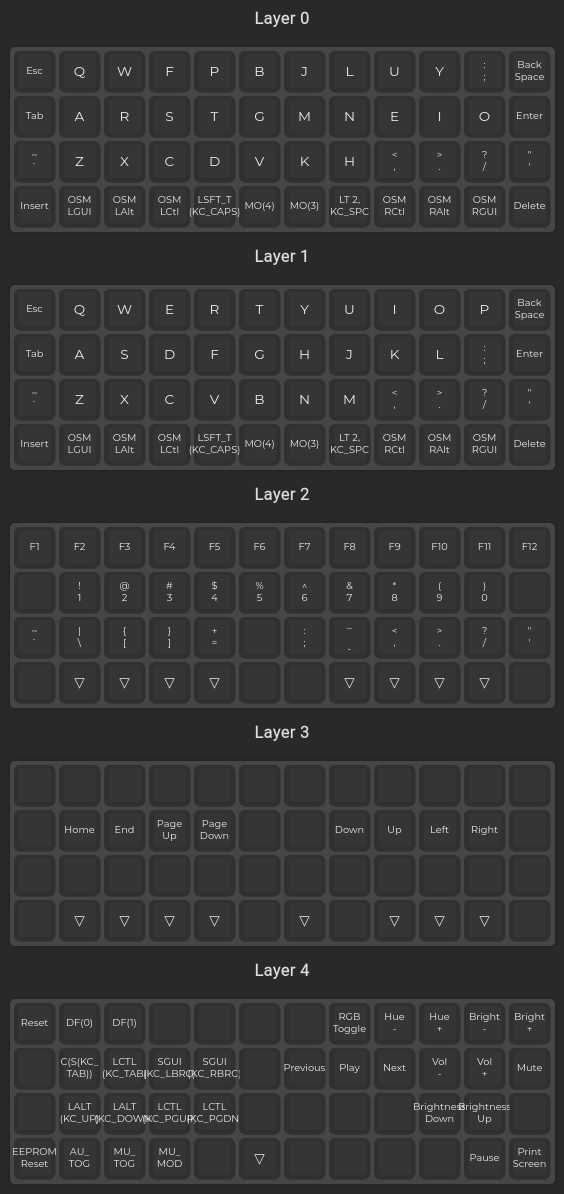
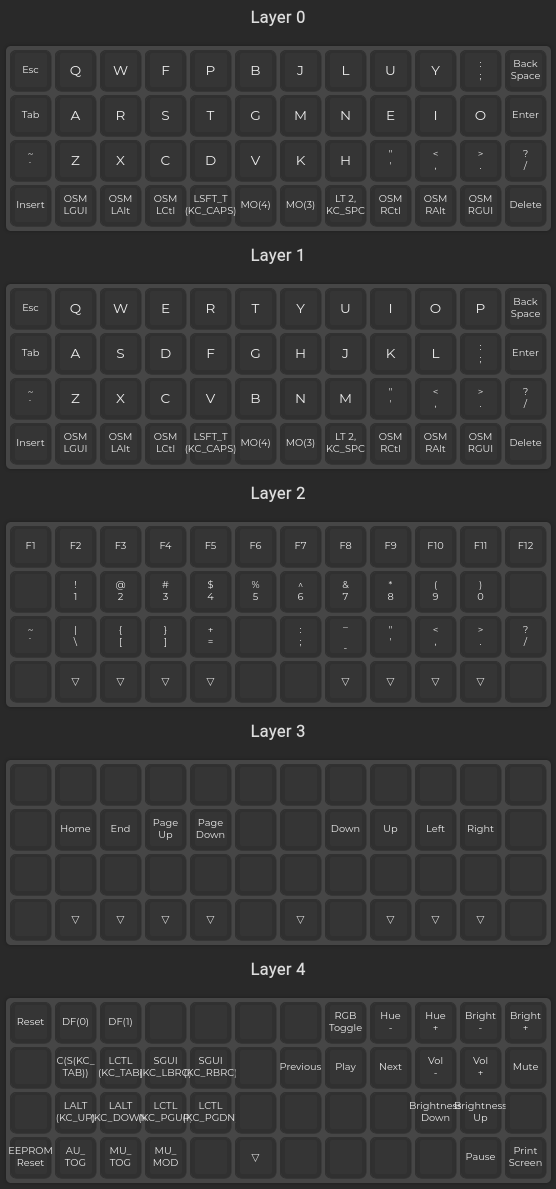
Swap quote

diff --git a/keymap.c b/keymap.c
@@ -7,9 +7,9 @@
  */
 
 const uint16_t PROGMEM keymaps[][MATRIX_ROWS][MATRIX_COLS] = {
-	[0] = LAYOUT_ortho_4x12(KC_ESC, KC_Q, KC_W, KC_F, KC_P, KC_B, KC_J, KC_L, KC_U, KC_Y, KC_SCLN, KC_BSPC, KC_TAB, KC_A, KC_R, KC_S, KC_T, KC_G, KC_M, KC_N, KC_E, KC_I, KC_O, KC_ENT, KC_GRV, KC_Z, KC_X, KC_C, KC_D, KC_V, KC_K, KC_H, KC_COMM, KC_DOT, KC_SLSH, KC_QUOT, KC_INS, OSM(MOD_LGUI), OSM(MOD_LALT), OSM(MOD_LCTL), LSFT_T(KC_CAPS), MO(4), MO(3), LT(2,KC_SPC), OSM(MOD_RCTL), OSM(MOD_RALT), OSM(MOD_RGUI), KC_DEL),
-	[1] = LAYOUT_ortho_4x12(KC_ESC, KC_Q, KC_W, KC_E, KC_R, KC_T, KC_Y, KC_U, KC_I, KC_O, KC_P, KC_BSPC, KC_TAB, KC_A, KC_S, KC_D, KC_F, KC_G, KC_H, KC_J, KC_K, KC_L, KC_SCLN, KC_ENT, KC_GRV, KC_Z, KC_X, KC_C, KC_V, KC_B, KC_N, KC_M, KC_COMM, KC_DOT, KC_SLSH, KC_QUOT, KC_INS, OSM(MOD_LGUI), OSM(MOD_LALT), OSM(MOD_LCTL), LSFT_T(KC_CAPS), MO(4), MO(3), LT(2,KC_SPC), OSM(MOD_RCTL), OSM(MOD_RALT), OSM(MOD_RGUI), KC_DEL),
-	[2] = LAYOUT_ortho_4x12(KC_F1, KC_F2, KC_F3, KC_F4, KC_F5, KC_F6, KC_F7, KC_F8, KC_F9, KC_F10, KC_F11, KC_F12, KC_NO, KC_1, KC_2, KC_3, KC_4, KC_5, KC_6, KC_7, KC_8, KC_9, KC_0, KC_NO, KC_GRV, KC_BSLS, KC_LBRC, KC_RBRC, KC_EQL, KC_NO, KC_SCLN, KC_MINS, KC_COMM, KC_DOT, KC_SLSH, KC_QUOT, KC_NO, KC_TRNS, KC_TRNS, KC_TRNS, KC_TRNS, KC_NO, KC_NO, KC_TRNS, KC_TRNS, KC_TRNS, KC_TRNS, KC_NO),
+	[0] = LAYOUT_ortho_4x12(KC_ESC, KC_Q, KC_W, KC_F, KC_P, KC_B, KC_J, KC_L, KC_U, KC_Y, KC_SCLN, KC_BSPC, KC_TAB, KC_A, KC_R, KC_S, KC_T, KC_G, KC_M, KC_N, KC_E, KC_I, KC_O, KC_ENT, KC_GRV, KC_Z, KC_X, KC_C, KC_D, KC_V, KC_K, KC_H, KC_QUOT, KC_COMM, KC_DOT, KC_SLSH, KC_INS, OSM(MOD_LGUI), OSM(MOD_LALT), OSM(MOD_LCTL), LSFT_T(KC_CAPS), MO(4), MO(3), LT(2,KC_SPC), OSM(MOD_RCTL), OSM(MOD_RALT), OSM(MOD_RGUI), KC_DEL),
+	[1] = LAYOUT_ortho_4x12(KC_ESC, KC_Q, KC_W, KC_E, KC_R, KC_T, KC_Y, KC_U, KC_I, KC_O, KC_P, KC_BSPC, KC_TAB, KC_A, KC_S, KC_D, KC_F, KC_G, KC_H, KC_J, KC_K, KC_L, KC_SCLN, KC_ENT, KC_GRV, KC_Z, KC_X, KC_C, KC_V, KC_B, KC_N, KC_M, KC_QUOT, KC_COMM, KC_DOT, KC_SLSH, KC_INS, OSM(MOD_LGUI), OSM(MOD_LALT), OSM(MOD_LCTL), LSFT_T(KC_CAPS), MO(4), MO(3), LT(2,KC_SPC), OSM(MOD_RCTL), OSM(MOD_RALT), OSM(MOD_RGUI), KC_DEL),
+	[2] = LAYOUT_ortho_4x12(KC_F1, KC_F2, KC_F3, KC_F4, KC_F5, KC_F6, KC_F7, KC_F8, KC_F9, KC_F10, KC_F11, KC_F12, KC_NO, KC_1, KC_2, KC_3, KC_4, KC_5, KC_6, KC_7, KC_8, KC_9, KC_0, KC_NO, KC_GRV, KC_BSLS, KC_LBRC, KC_RBRC, KC_EQL, KC_NO, KC_SCLN, KC_MINS, KC_QUOT, KC_COMM, KC_DOT, KC_SLSH, KC_NO, KC_TRNS, KC_TRNS, KC_TRNS, KC_TRNS, KC_NO, KC_NO, KC_TRNS, KC_TRNS, KC_TRNS, KC_TRNS, KC_NO),
 	[3] = LAYOUT_ortho_4x12(KC_NO, KC_NO, KC_NO, KC_NO, KC_NO, KC_NO, KC_NO, KC_NO, KC_NO, KC_NO, KC_NO, KC_NO, KC_NO, KC_HOME, KC_END, KC_PGUP, KC_PGDN, KC_NO, KC_NO, KC_DOWN, KC_UP, KC_LEFT, KC_RGHT, KC_NO, KC_NO, KC_NO, KC_NO, KC_NO, KC_NO, KC_NO, KC_NO, KC_NO, KC_NO, KC_NO, KC_NO, KC_NO, KC_NO, KC_TRNS, KC_TRNS, KC_TRNS, KC_TRNS, KC_NO, KC_TRNS, KC_NO, KC_TRNS, KC_TRNS, KC_TRNS, KC_NO),
 	[4] = LAYOUT_ortho_4x12(RESET, DF(0), DF(1), KC_NO, KC_NO, KC_NO, KC_NO, RGB_TOG, RGB_HUD, RGB_HUI, RGB_VAD, RGB_VAI, KC_NO, C(S(KC_TAB)), LCTL(KC_TAB), SGUI(KC_LBRC), SGUI(KC_RBRC), KC_NO, KC_MPRV, KC_MPLY, KC_MNXT, KC_VOLD, KC_VOLU, KC_MUTE, KC_NO, LALT(KC_UP), LALT(KC_DOWN), LCTL(KC_PGUP), LCTL(KC_PGDN), KC_NO, KC_NO, KC_NO, KC_NO, KC_BRID, KC_BRIU, KC_NO, EEP_RST, AU_TOG, MU_TOG, MU_MOD, KC_NO, KC_TRNS, KC_NO, KC_NO, KC_NO, KC_NO, KC_PAUS, KC_PSCR)
 };
